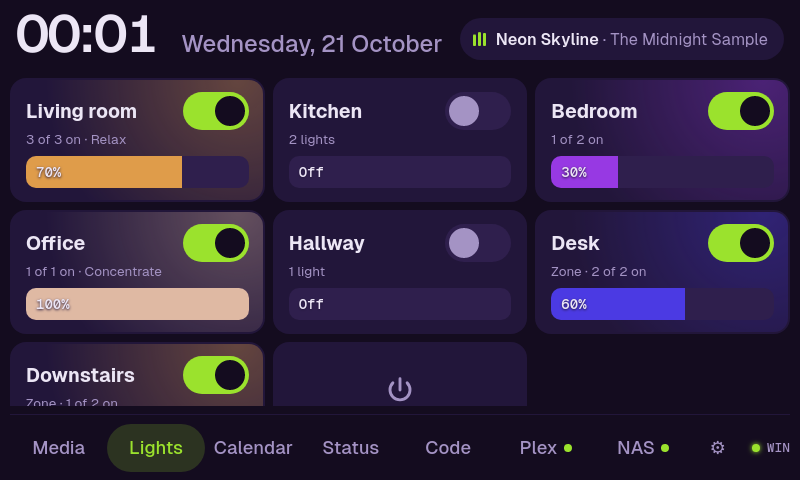
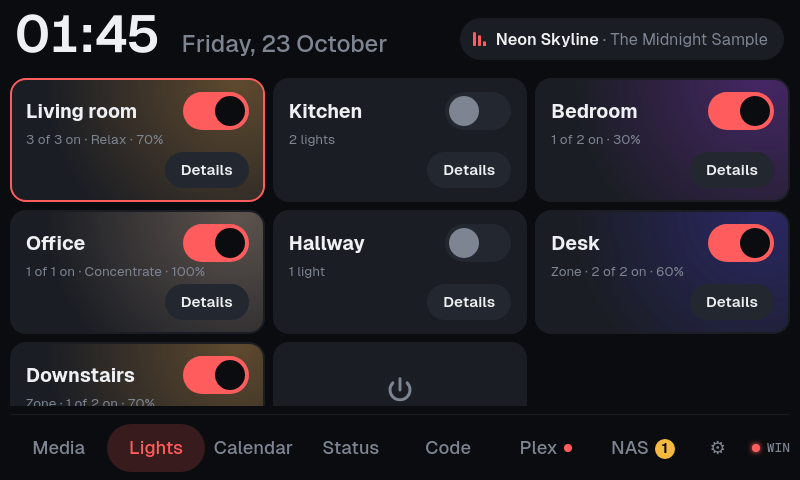
Retake the Lights screenshots and document the room cards

diff --git a/README.md b/README.md
@@ -63,7 +63,7 @@ The Car Thing's screen is 800×480. These use made-up demo data; to retake them,
 | **Event details:** tap any event | **Audio devices:** tap the output in the Media header |
 | ![Volume bar shown over the Media page](docs/screenshots/volume.png) | ![Lock screen with the clock, what's playing and media buttons](docs/screenshots/lock.png) |
 | **Volume bar:** shows when the volume changes | **Lock screen:** while the computer is locked |
-| ![Lights page: Philips Hue rooms and zones tinted with their light color, with switches and brightness bars](docs/screenshots/lights.png) | ![A room card: brightness, warm-to-cool white, scenes and its lights](docs/screenshots/room.png) |
+| ![Lights page: Philips Hue rooms and zones tinted with their light color, with switches, brightness and a Details button](docs/screenshots/lights.png) | ![A room card: brightness, warm-to-cool white, scenes and its lights](docs/screenshots/room.png) |
 | **Lights:** Philips Hue rooms and zones, with the song playing in the top bar | **A room:** brightness, white, scenes, each light |
 | ![Plex page: two streams with posters and transcode tags, a running job, the server's CPU and bandwidth graphs, and the libraries](docs/screenshots/plex.png) | ![NAS page: TrueNAS pools as tanks that fill up, disk temperatures, alerts, apps and running jobs](docs/screenshots/nas.png) |
 | **Plex:** streams and how each is sent, running jobs, server load, libraries | **NAS:** TrueNAS pools, disks, alerts, apps and jobs |
@@ -201,10 +201,11 @@ them to the Car Thing **over the USB cable** (`adb forward`; no network):
     Wayland with the [Window Calls](https://extensions.gnome.org/extension/4724/window-calls/)
     extension, since GNOME doesn't share the focused window otherwise.
 - **Lights (Philips Hue):** a card per room and zone, tinted with the color its lights
-  show, with an on/off switch and a brightness bar (tap or drag). Tap a card for its
-  scenes, a warm-to-cool white slider and each light; tapping a room also makes it
-  the target of the dial's **Lights** mode (turn: brightness, press: on/off, with a
-  bar on screen like the volume one). "All off" turns every room off. See
+  show, with its switch, how many lights are on, the scene and the brightness. Tap a
+  card to turn the room on or off; **Details** opens its brightness bar (tap or drag),
+  scenes, a warm-to-cool white slider and each light. Tapping a room also makes it the
+  target of the dial's **Lights** mode (turn: brightness, press: on/off, with a bar on
+  screen like the volume one). "All off" turns every room off. See
   [Connecting Philips Hue](#connecting-philips-hue).
 - **Code (GitHub):** the latest run of each workflow in one repository (up to 20:
   running, queued, passed, failed or cancelled, with branch, commit and time) and your
